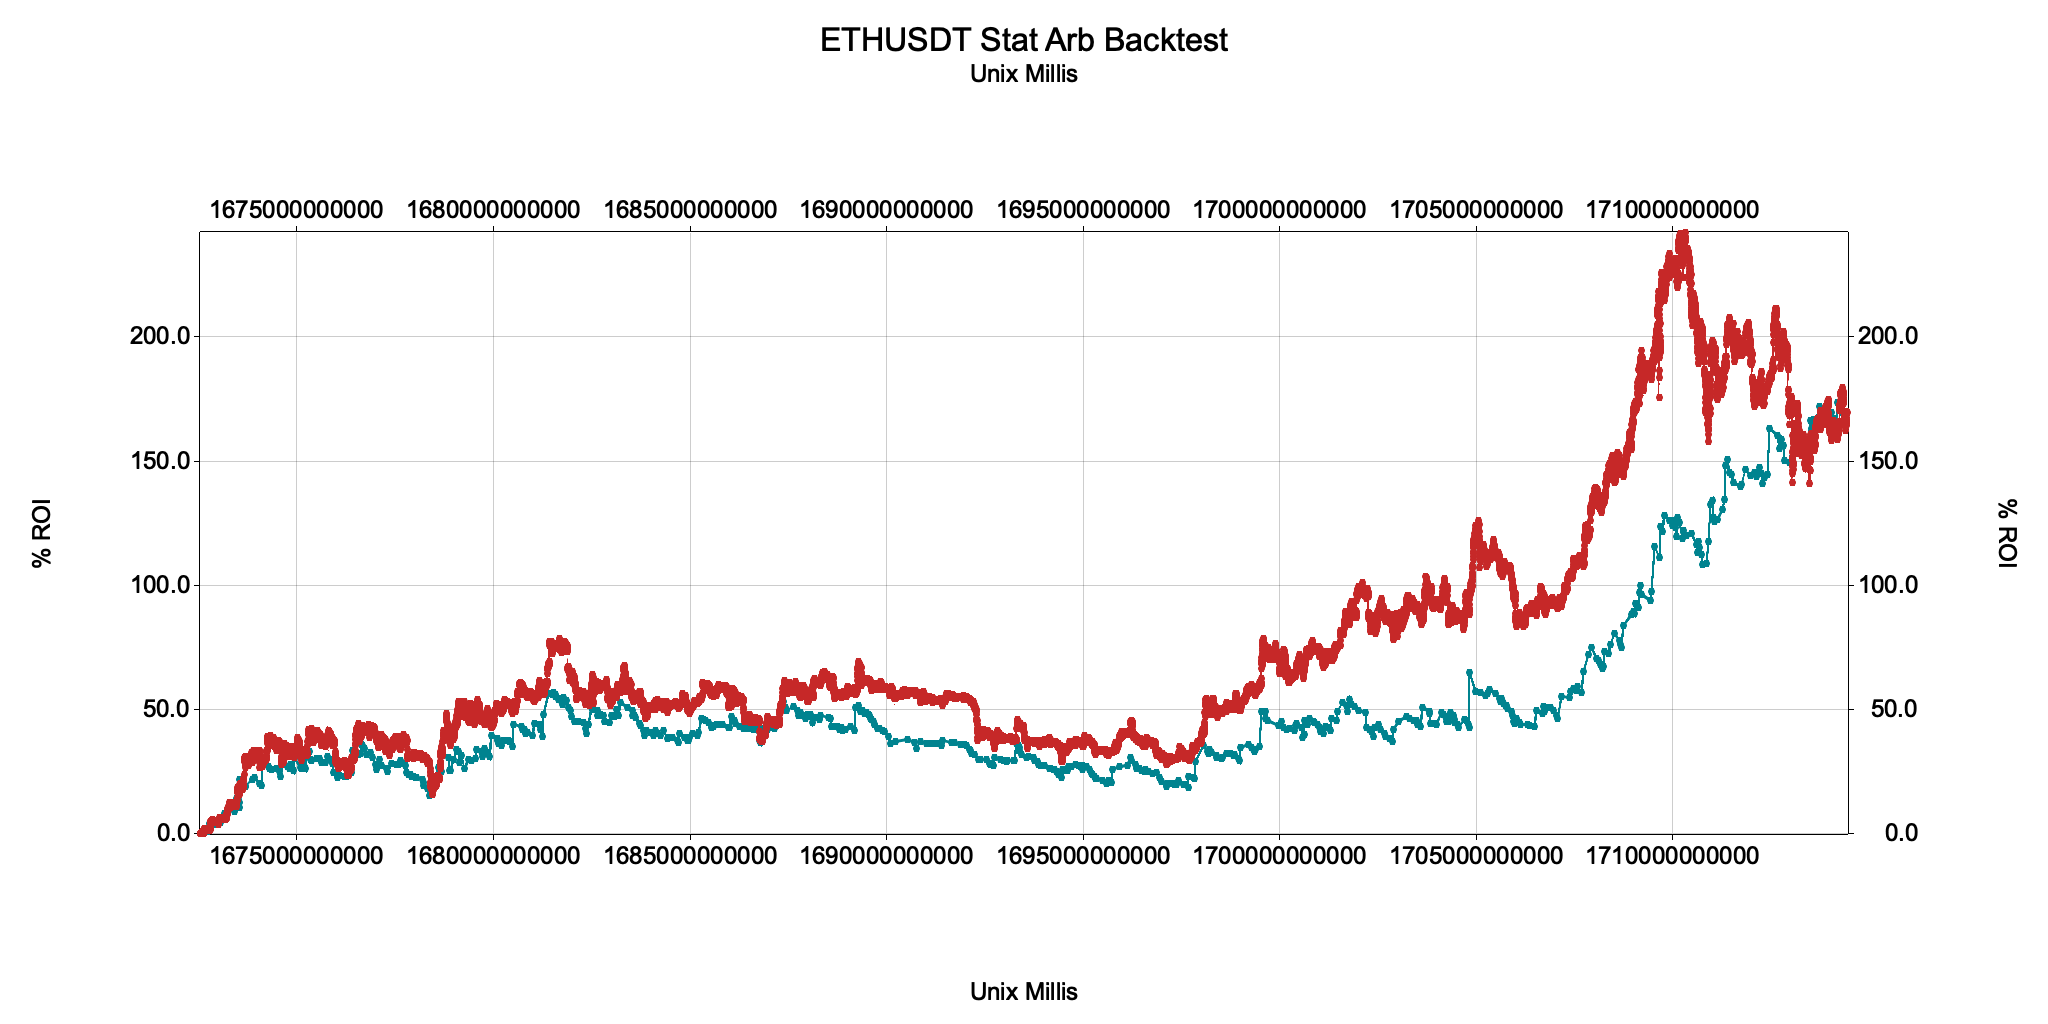
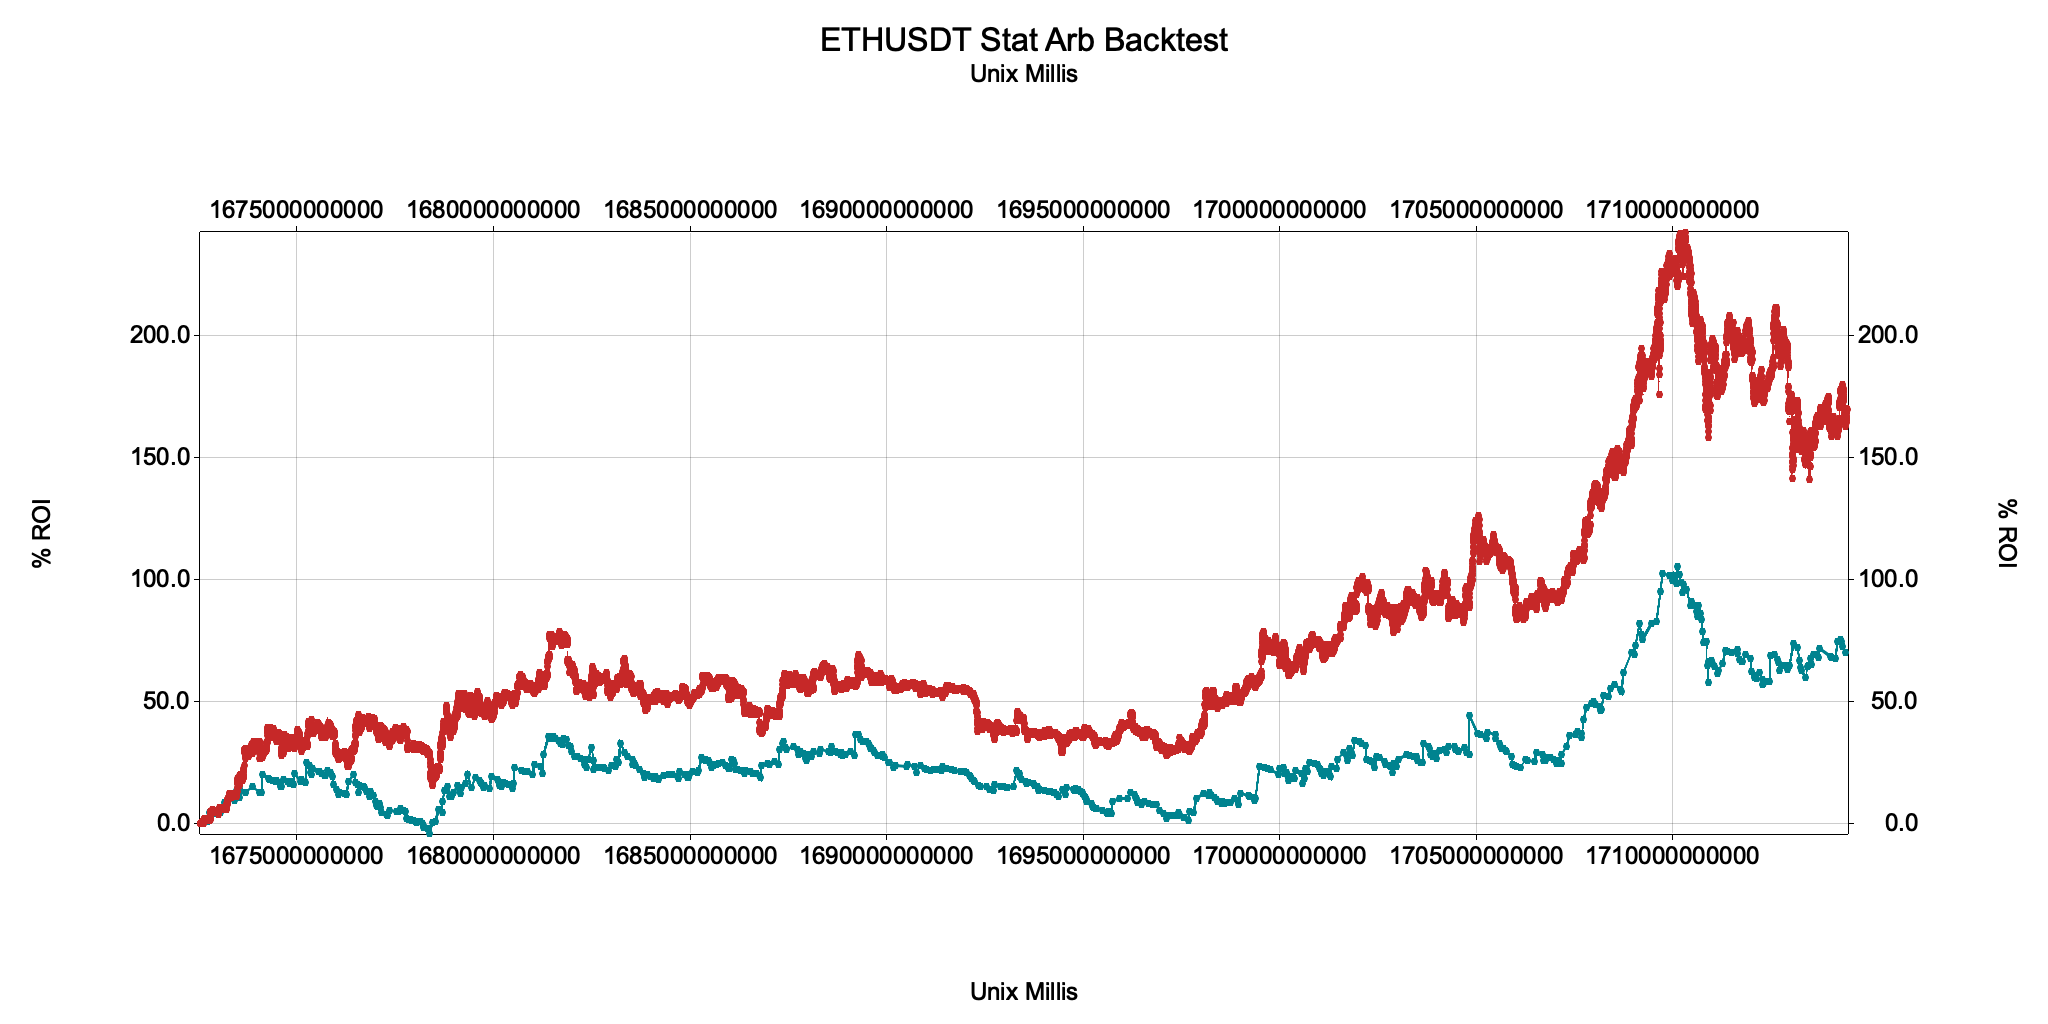
good settings

diff --git a/playbook/src/strategies/stat_arb.rs b/playbook/src/strategies/stat_arb.rs
@@ -115,42 +115,38 @@ impl StatArb {
         // process exits before any new entries
         if exit_long {
           if ticker == self.x.id {
-            // todo: do not touch this
             // signals.push(Signal::EnterLong(x_info.clone()))
             signals.push(Signal::ExitLong(x_info.clone()))
           } else if ticker == self.y.id {
             // todo: do not touch this
-            // signals.push(Signal::ExitLong(y_info.clone()))
             signals.push(Signal::EnterLong(y_info.clone()))
           }
         }
         if exit_short {
           if ticker == self.x.id {
-            // signals.push(Signal::EnterShort(x_info.clone()))
-            signals.push(Signal::ExitShort(x_info.clone()))
+            signals.push(Signal::EnterShort(x_info.clone()))
+            // signals.push(Signal::ExitShort(x_info.clone()))
           } else if ticker == self.y.id {
+            // todo: do not touch this
             signals.push(Signal::ExitShort(y_info.clone()))
-            // signals.push(Signal::EnterShort(y_info.clone()))
           }
         }
 
         if enter_long {
           if ticker == self.x.id {
-            // todo: do not touch this
             // signals.push(Signal::ExitLong(x_info.clone()))
             signals.push(Signal::EnterLong(x_info.clone()))
           } else if ticker == self.y.id {
             // todo: do not touch this
-            // signals.push(Signal::EnterLong(y_info.clone()))
             signals.push(Signal::ExitLong(y_info.clone()))
           }
         }
         if enter_short {
           if ticker == self.x.id {
-            // signals.push(Signal::ExitShort(x_info))
-            signals.push(Signal::EnterShort(x_info))
+            signals.push(Signal::ExitShort(x_info))
+            // signals.push(Signal::EnterShort(x_info))
           } else if ticker == self.y.id {
-            // signals.push(Signal::ExitShort(y_info))
+            // todo: do not touch this
             signals.push(Signal::EnterShort(y_info))
           }
         }
@@ -223,7 +219,7 @@ async fn btc_eth_30m_stat_arb() -> anyhow::Result<()> {
   let fee = 0.02;
   let bet = Bet::Percent(100.0);
   let leverage = 1;
-  let short_selling = false;
+  let short_selling = true;
 
   let x_ticker = "BTCUSDT".to_string();
   let y_ticker = "ETHUSDT".to_string();
@@ -270,13 +266,13 @@ async fn btc_eth_30m_stat_arb() -> anyhow::Result<()> {
         "Unix Millis"
       )?;
 
-      Plot::plot(
-        vec![summary.pct_per_trade(&x_ticker)?.data().clone()],
-        "stat_arb_btc_30m_trades.png",
-        &format!("{} Stat Arb Trades", x_ticker),
-        "% ROI",
-        "Unix Millis"
-      )?;
+      // Plot::plot(
+      //   vec![summary.pct_per_trade(&x_ticker)?.data().clone()],
+      //   "stat_arb_btc_30m_trades.png",
+      //   &format!("{} Stat Arb Trades", x_ticker),
+      //   "% ROI",
+      //   "Unix Millis"
+      // )?;
     }
   }
   if let Some(trades) = backtest.trades.get(&y_ticker) {
@@ -294,13 +290,13 @@ async fn btc_eth_30m_stat_arb() -> anyhow::Result<()> {
         "Unix Millis"
       )?;
 
-      Plot::plot(
-        vec![summary.pct_per_trade(&y_ticker)?.data().clone()],
-        "stat_arb_eth_30m_trades.png",
-        &format!("{} Stat Arb Trades", y_ticker),
-        "% ROI",
-        "Unix Millis"
-      )?;
+      // Plot::plot(
+      //   vec![summary.pct_per_trade(&y_ticker)?.data().clone()],
+      //   "stat_arb_eth_30m_trades.png",
+      //   &format!("{} Stat Arb Trades", y_ticker),
+      //   "% ROI",
+      //   "Unix Millis"
+      // )?;
     }
   }
 
